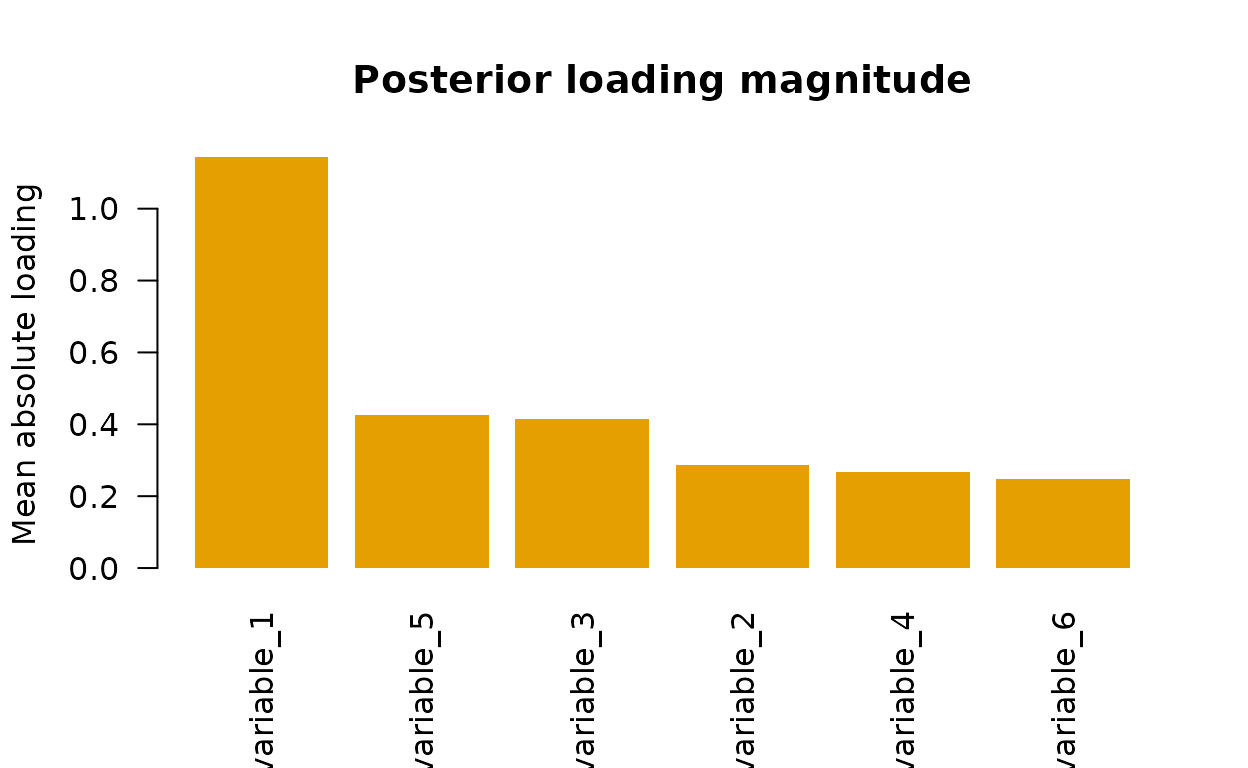
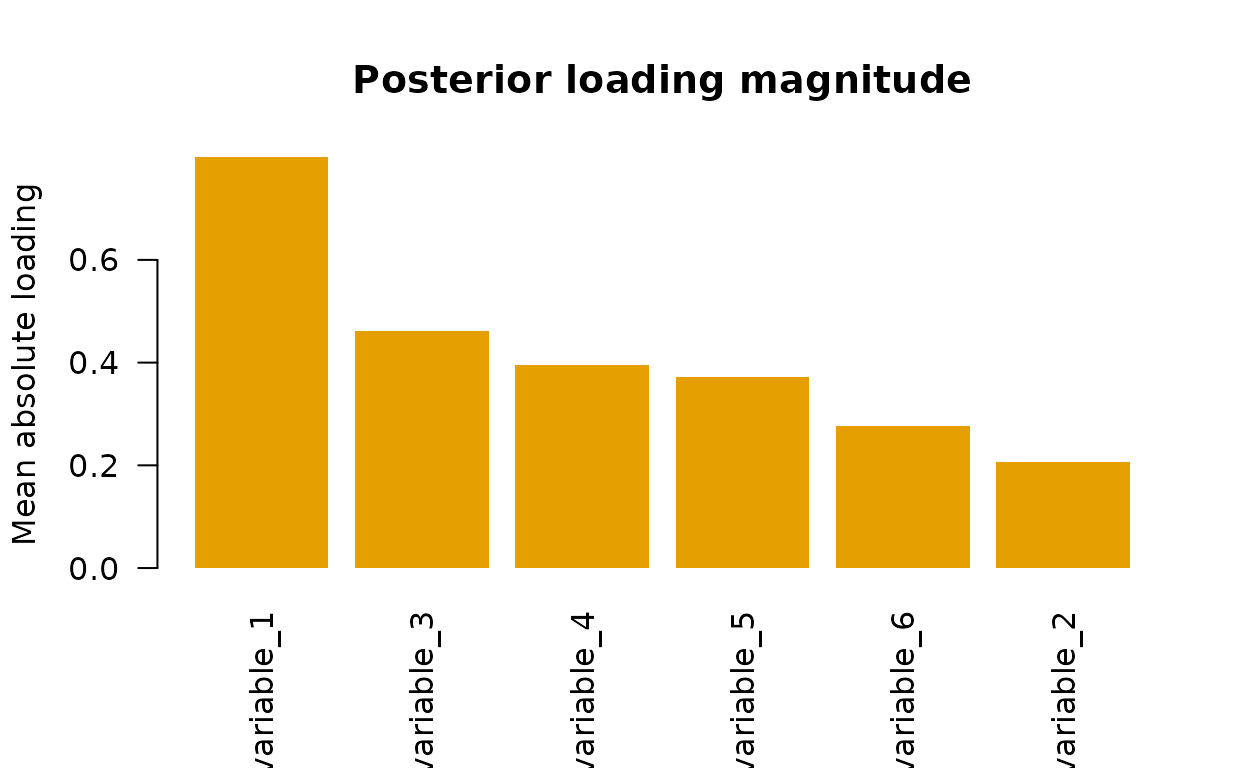
Deploying to gh-pages from @ YaoxiangLi/bpgmm@93dcc740b5835776e0d86ca30240e2da467fcf1e 🚀

diff --git a/articles/variable-prioritization.html b/articles/variable-prioritization.html
@@ -22,7 +22,7 @@
 
     <a class="navbar-brand me-2" href="../index.html">bpgmm</a>
 
-    <small class="nav-text text-muted me-auto" data-bs-toggle="tooltip" data-bs-placement="bottom" title="">1.3.1</small>
+    <small class="nav-text text-muted me-auto" data-bs-toggle="tooltip" data-bs-placement="bottom" title="">1.3.2</small>
 
 
     <button class="navbar-toggler" type="button" data-bs-toggle="collapse" data-bs-target="#navbar" aria-controls="navbar" aria-expanded="false" aria-label="Toggle navigation">
@@ -101,7 +101,7 @@ variables four and five have mostly covariance differences, and variable
 six is weak noise.</p>
 <div class="sourceCode" id="cb1"><pre class="downlit sourceCode r">
 <code class="sourceCode R"><span><span class="kw"><a href="https://rdrr.io/r/base/library.html" class="external-link">library</a></span><span class="op">(</span><span class="va"><a href="https://github.com/YaoxiangLi/bpgmm" class="external-link">bpgmm</a></span><span class="op">)</span></span>
-<span><span class="co">#&gt; bpgmm 1.3.1 loaded. If you use bpgmm in published work, please cite it with citation("bpgmm").</span></span>
+<span><span class="co">#&gt; bpgmm 1.3.2 loaded. If you use bpgmm in published work, please cite it with citation("bpgmm").</span></span>
 <span></span>
 <span><span class="va">simulate_screening_data</span> <span class="op">&lt;-</span> <span class="kw">function</span><span class="op">(</span><span class="va">n_per_cluster</span> <span class="op">=</span> <span class="fl">18</span>, <span class="va">p</span> <span class="op">=</span> <span class="fl">6</span><span class="op">)</span> <span class="op">{</span></span>
 <span>  <span class="va">means</span> <span class="op">&lt;-</span> <span class="fu"><a href="https://rdrr.io/r/base/cbind.html" class="external-link">rbind</a></span><span class="op">(</span></span>
@@ -174,7 +174,7 @@ questions.</p>
 <span></span>
 <span><span class="va">fit_summary</span> <span class="op">&lt;-</span> <span class="fu"><a href="../reference/summarize_pgmm_rjmcmc.html">summarize_pgmm_rjmcmc</a></span><span class="op">(</span><span class="va">fit</span>, true_cluster <span class="op">=</span> <span class="va">true_cluster</span><span class="op">)</span></span>
 <span><span class="va">fit_summary</span><span class="op">$</span><span class="va">ari</span></span>
-<span><span class="co">#&gt; [1] 0.5278689</span></span></code></pre></div>
+<span><span class="co">#&gt; [1] 0.5395626</span></span></code></pre></div>
 </div>
 <div class="section level2">
 <h2 id="rank-variables-by-posterior-allocation-separation">Rank variables by posterior allocation separation<a class="anchor" aria-label="anchor" href="#rank-variables-by-posterior-allocation-separation"></a>
@@ -209,11 +209,11 @@ separation under the fitted partition.</p>
 <span><span class="va">separation_table</span><span class="op">[</span><span class="fu"><a href="https://rdrr.io/r/base/order.html" class="external-link">order</a></span><span class="op">(</span><span class="va">separation_table</span><span class="op">$</span><span class="va">separation</span>, decreasing <span class="op">=</span> <span class="cn">TRUE</span><span class="op">)</span>, <span class="op">]</span></span>
 <span><span class="co">#&gt;     variable separation</span></span>
 <span><span class="co">#&gt; 2 variable_2      0.810</span></span>
-<span><span class="co">#&gt; 3 variable_3      0.704</span></span>
-<span><span class="co">#&gt; 6 variable_6      0.182</span></span>
-<span><span class="co">#&gt; 4 variable_4      0.114</span></span>
+<span><span class="co">#&gt; 3 variable_3      0.708</span></span>
+<span><span class="co">#&gt; 4 variable_4      0.166</span></span>
+<span><span class="co">#&gt; 6 variable_6      0.163</span></span>
 <span><span class="co">#&gt; 5 variable_5      0.036</span></span>
-<span><span class="co">#&gt; 1 variable_1      0.002</span></span></code></pre></div>
+<span><span class="co">#&gt; 1 variable_1      0.026</span></span></code></pre></div>
 <div class="sourceCode" id="cb4"><pre class="downlit sourceCode r">
 <code class="sourceCode R"><span><span class="va">ordered</span> <span class="op">&lt;-</span> <span class="fu"><a href="https://rdrr.io/r/base/order.html" class="external-link">order</a></span><span class="op">(</span><span class="va">separation</span>, decreasing <span class="op">=</span> <span class="cn">TRUE</span><span class="op">)</span></span>
 <span><span class="fu"><a href="https://rdrr.io/r/graphics/barplot.html" class="external-link">barplot</a></span><span class="op">(</span></span>
@@ -289,12 +289,12 @@ not a posterior inclusion probability.</p>
 <span><span class="op">)</span></span>
 <span><span class="va">loading_table</span><span class="op">[</span><span class="fu"><a href="https://rdrr.io/r/base/order.html" class="external-link">order</a></span><span class="op">(</span><span class="va">loading_table</span><span class="op">$</span><span class="va">mean_abs_loading</span>, decreasing <span class="op">=</span> <span class="cn">TRUE</span><span class="op">)</span>, <span class="op">]</span></span>
 <span><span class="co">#&gt;     variable mean_abs_loading</span></span>
-<span><span class="co">#&gt; 1 variable_1            1.143</span></span>
-<span><span class="co">#&gt; 5 variable_5            0.425</span></span>
-<span><span class="co">#&gt; 3 variable_3            0.415</span></span>
-<span><span class="co">#&gt; 2 variable_2            0.287</span></span>
-<span><span class="co">#&gt; 4 variable_4            0.267</span></span>
-<span><span class="co">#&gt; 6 variable_6            0.247</span></span></code></pre></div>
+<span><span class="co">#&gt; 1 variable_1            0.799</span></span>
+<span><span class="co">#&gt; 3 variable_3            0.461</span></span>
+<span><span class="co">#&gt; 4 variable_4            0.395</span></span>
+<span><span class="co">#&gt; 5 variable_5            0.373</span></span>
+<span><span class="co">#&gt; 6 variable_6            0.276</span></span>
+<span><span class="co">#&gt; 2 variable_2            0.207</span></span></code></pre></div>
 <div class="sourceCode" id="cb6"><pre class="downlit sourceCode r">
 <code class="sourceCode R"><span><span class="va">ordered_loading</span> <span class="op">&lt;-</span> <span class="fu"><a href="https://rdrr.io/r/base/order.html" class="external-link">order</a></span><span class="op">(</span><span class="va">loading_score</span>, decreasing <span class="op">=</span> <span class="cn">TRUE</span><span class="op">)</span></span>
 <span><span class="fu"><a href="https://rdrr.io/r/graphics/barplot.html" class="external-link">barplot</a></span><span class="op">(</span></span>

diff --git a/articles/posterior-diagnostics.html b/articles/posterior-diagnostics.html
@@ -22,7 +22,7 @@
 
     <a class="navbar-brand me-2" href="../index.html">bpgmm</a>
 
-    <small class="nav-text text-muted me-auto" data-bs-toggle="tooltip" data-bs-placement="bottom" title="">1.3.1</small>
+    <small class="nav-text text-muted me-auto" data-bs-toggle="tooltip" data-bs-placement="bottom" title="">1.3.2</small>
 
 
     <button class="navbar-toggler" type="button" data-bs-toggle="collapse" data-bs-target="#navbar" aria-controls="navbar" aria-expanded="false" aria-label="Toggle navigation">
@@ -86,7 +86,7 @@ across independent runs.</p>
 </h2>
 <div class="sourceCode" id="cb1"><pre class="downlit sourceCode r">
 <code class="sourceCode R"><span><span class="kw"><a href="https://rdrr.io/r/base/library.html" class="external-link">library</a></span><span class="op">(</span><span class="va"><a href="https://github.com/YaoxiangLi/bpgmm" class="external-link">bpgmm</a></span><span class="op">)</span></span>
-<span><span class="co">#&gt; bpgmm 1.3.1 loaded. If you use bpgmm in published work, please cite it with citation("bpgmm").</span></span>
+<span><span class="co">#&gt; bpgmm 1.3.2 loaded. If you use bpgmm in published work, please cite it with citation("bpgmm").</span></span>
 <span></span>
 <span><span class="fu"><a href="https://rdrr.io/r/base/Random.html" class="external-link">set.seed</a></span><span class="op">(</span><span class="fl">2029</span><span class="op">)</span></span>
 <span><span class="va">X</span> <span class="op">&lt;-</span> <span class="fu"><a href="https://rdrr.io/r/base/cbind.html" class="external-link">cbind</a></span><span class="op">(</span></span>
@@ -161,9 +161,9 @@ the chains use different random seeds.</p>
 <span>    <span class="fu"><a href="https://rdrr.io/r/base/integer.html" class="external-link">as.integer</a></span><span class="op">(</span><span class="fu"><a href="https://rdrr.io/r/base/names.html" class="external-link">names</a></span><span class="op">(</span><span class="fu"><a href="https://rdrr.io/r/base/which.min.html" class="external-link">which.max</a></span><span class="op">(</span><span class="va">x</span><span class="op">$</span><span class="va">n_clusters</span><span class="op">)</span><span class="op">)</span><span class="op">)</span></span>
 <span>  <span class="op">}</span>, <span class="fu"><a href="https://rdrr.io/r/base/integer.html" class="external-link">integer</a></span><span class="op">(</span><span class="fl">1</span><span class="op">)</span><span class="op">)</span></span>
 <span><span class="op">)</span></span>
-<span><span class="co">#&gt;           chain       ari modal_clusters</span></span>
-<span><span class="co">#&gt; chain_1 chain_1 1.0000000              3</span></span>
-<span><span class="co">#&gt; chain_2 chain_2 0.1452145              3</span></span></code></pre></div>
+<span><span class="co">#&gt;           chain ari modal_clusters</span></span>
+<span><span class="co">#&gt; chain_1 chain_1   1              3</span></span>
+<span><span class="co">#&gt; chain_2 chain_2   1              3</span></span></code></pre></div>
 </div>
 <div class="section level2">
 <h2 id="trace-cluster-counts-and-covariance-models">Trace cluster counts and covariance models<a class="anchor" aria-label="anchor" href="#trace-cluster-counts-and-covariance-models"></a>
@@ -194,7 +194,7 @@ diagnostics.</p>
 <span><span class="co">#&gt; [1] "UUU" "CUU" "CUC" "CCC"</span></span>
 <span><span class="co">#&gt; </span></span>
 <span><span class="co">#&gt; $chain_2</span></span>
-<span><span class="co">#&gt; [1] "UUU" "UCU" "UCC" "UCC"</span></span></code></pre></div>
+<span><span class="co">#&gt; [1] "CUU" "UUU" "UUU" "UCU"</span></span></code></pre></div>
 <div class="sourceCode" id="cb6"><pre class="downlit sourceCode r">
 <code class="sourceCode R"><span><span class="va">old_par</span> <span class="op">&lt;-</span> <span class="fu"><a href="https://rdrr.io/r/graphics/par.html" class="external-link">par</a></span><span class="op">(</span>mar <span class="op">=</span> <span class="fu"><a href="https://rdrr.io/r/base/c.html" class="external-link">c</a></span><span class="op">(</span><span class="fl">4</span>, <span class="fl">4</span>, <span class="fl">3</span>, <span class="fl">1</span><span class="op">)</span><span class="op">)</span></span>
 <span><span class="fu"><a href="https://rdrr.io/r/graphics/plot.default.html" class="external-link">plot</a></span><span class="op">(</span></span>

diff --git a/news/index.html b/news/index.html
@@ -7,7 +7,7 @@
 
     <a class="navbar-brand me-2" href="../index.html">bpgmm</a>
 
-    <small class="nav-text text-muted me-auto" data-bs-toggle="tooltip" data-bs-placement="bottom" title="">1.3.1</small>
+    <small class="nav-text text-muted me-auto" data-bs-toggle="tooltip" data-bs-placement="bottom" title="">1.3.2</small>
 
 
     <button class="navbar-toggler" type="button" data-bs-toggle="collapse" data-bs-target="#navbar" aria-controls="navbar" aria-expanded="false" aria-label="Toggle navigation">
@@ -44,7 +44,12 @@
     </div>
 
     <div class="section level2">
-<h2 class="pkg-version" data-toc-text="1.3.1" id="bpgmm-131">bpgmm 1.3.1<a class="anchor" aria-label="anchor" href="#bpgmm-131"></a></h2>
+<h2 class="pkg-version" data-toc-text="1.3.2" id="bpgmm-132">bpgmm 1.3.2<a class="anchor" aria-label="anchor" href="#bpgmm-132"></a></h2>
+<ul><li>Fixed the <code>beta</code> hyperparameter Gibbs update so the Gamma rate uses the rate hyperprior <code>s_vec[3]</code> (<code>s_beta</code>) instead of the shape hyperprior <code>d_vec[3]</code>, matching the conditional posterior in Lu, Li, and Love (2021, Appendix A.1.3). Results are unchanged under the default symmetric hyperpriors <code>d_vec = s_vec = c(1, 1, 1)</code> but are corrected for user-supplied asymmetric <code>beta</code> hyperpriors.</li>
+<li>Fixed the native latent-score update so unallocated observations draw from <code>N(0, I_q)</code> as specified in the paper’s conditional for the scores, rather than from the component score covariance. These scores are not used in any downstream sufficient statistic, so posterior results are unaffected.</li>
+</ul></div>
+    <div class="section level2">
+<h2 class="pkg-version" data-toc-text="1.3.1" id="bpgmm-131">bpgmm 1.3.1<a class="anchor" aria-label="anchor" href="#bpgmm-131"></a></h2><p class="text-muted">CRAN release: 2026-05-28</p>
 <ul><li>Revised the vignette set to reduce repeated examples across vignettes.</li>
 <li>Made the model-and-sampler, data-preparation, model-selection, variable-prioritization, and diagnostics vignettes more formula-focused and closer to the notation in Lu, Li, and Love (2021).</li>
 <li>Changed the variable-prioritization simulation so it no longer duplicates the larger MFA model-selection example.</li>

diff --git a/articles/model-selection.html b/articles/model-selection.html
@@ -22,7 +22,7 @@
 
     <a class="navbar-brand me-2" href="../index.html">bpgmm</a>
 
-    <small class="nav-text text-muted me-auto" data-bs-toggle="tooltip" data-bs-placement="bottom" title="">1.3.1</small>
+    <small class="nav-text text-muted me-auto" data-bs-toggle="tooltip" data-bs-placement="bottom" title="">1.3.2</small>
 
 
     <button class="navbar-toggler" type="button" data-bs-toggle="collapse" data-bs-target="#navbar" aria-controls="navbar" aria-expanded="false" aria-label="Toggle navigation">
@@ -98,7 +98,7 @@ y_i \sim N_2(0, I_2),
 </annotation></semantics></math></p>
 <div class="sourceCode" id="cb1"><pre class="downlit sourceCode r">
 <code class="sourceCode R"><span><span class="kw"><a href="https://rdrr.io/r/base/library.html" class="external-link">library</a></span><span class="op">(</span><span class="va"><a href="https://github.com/YaoxiangLi/bpgmm" class="external-link">bpgmm</a></span><span class="op">)</span></span>
-<span><span class="co">#&gt; bpgmm 1.3.1 loaded. If you use bpgmm in published work, please cite it with citation("bpgmm").</span></span>
+<span><span class="co">#&gt; bpgmm 1.3.2 loaded. If you use bpgmm in published work, please cite it with citation("bpgmm").</span></span>
 <span></span>
 <span><span class="va">simulate_mfa_data</span> <span class="op">&lt;-</span> <span class="kw">function</span><span class="op">(</span><span class="va">n_per_cluster</span> <span class="op">=</span> <span class="fl">20</span>, <span class="va">p</span> <span class="op">=</span> <span class="fl">6</span>, <span class="va">q</span> <span class="op">=</span> <span class="fl">2</span><span class="op">)</span> <span class="op">{</span></span>
 <span>  <span class="va">means</span> <span class="op">&lt;-</span> <span class="fu"><a href="https://rdrr.io/r/base/cbind.html" class="external-link">rbind</a></span><span class="op">(</span></span>
@@ -226,8 +226,8 @@ frequencies:</p>
 <span><span class="co">#&gt; 6</span></span>
 <span><span class="va">fit_summary</span><span class="op">$</span><span class="va">n_constraints</span></span>
 <span><span class="co">#&gt; </span></span>
-<span><span class="co">#&gt; UCC UCU UUU </span></span>
-<span><span class="co">#&gt;   1   1   4</span></span>
+<span><span class="co">#&gt; UCU UUU </span></span>
+<span><span class="co">#&gt;   5   1</span></span>
 <span><span class="va">fit_summary</span><span class="op">$</span><span class="va">ari</span></span>
 <span><span class="co">#&gt; [1] 0.9495627</span></span></code></pre></div>
 <p>The model-selection summaries are posterior sample counts. In an

diff --git a/articles/data-preparation.html b/articles/data-preparation.html
@@ -22,7 +22,7 @@
 
     <a class="navbar-brand me-2" href="../index.html">bpgmm</a>
 
-    <small class="nav-text text-muted me-auto" data-bs-toggle="tooltip" data-bs-placement="bottom" title="">1.3.1</small>
+    <small class="nav-text text-muted me-auto" data-bs-toggle="tooltip" data-bs-placement="bottom" title="">1.3.2</small>
 
 
     <button class="navbar-toggler" type="button" data-bs-toggle="collapse" data-bs-target="#navbar" aria-controls="navbar" aria-expanded="false" aria-label="Toggle navigation">
@@ -102,7 +102,7 @@ is observation
 <math display="inline" xmlns="http://www.w3.org/1998/Math/MathML"><semantics><msub><mi>x</mi><mi>i</mi></msub><annotation encoding="application/x-tex">x_i</annotation></semantics></math>.</p>
 <div class="sourceCode" id="cb1"><pre class="downlit sourceCode r">
 <code class="sourceCode R"><span><span class="kw"><a href="https://rdrr.io/r/base/library.html" class="external-link">library</a></span><span class="op">(</span><span class="va"><a href="https://github.com/YaoxiangLi/bpgmm" class="external-link">bpgmm</a></span><span class="op">)</span></span>
-<span><span class="co">#&gt; bpgmm 1.3.1 loaded. If you use bpgmm in published work, please cite it with citation("bpgmm").</span></span>
+<span><span class="co">#&gt; bpgmm 1.3.2 loaded. If you use bpgmm in published work, please cite it with citation("bpgmm").</span></span>
 <span></span>
 <span><span class="va">iris_numeric</span> <span class="op">&lt;-</span> <span class="fu"><a href="https://rdrr.io/r/base/matrix.html" class="external-link">as.matrix</a></span><span class="op">(</span><span class="va">iris</span><span class="op">[</span>, <span class="fl">1</span><span class="op">:</span><span class="fl">4</span><span class="op">]</span><span class="op">)</span></span>
 <span><span class="va">iris_labels</span> <span class="op">&lt;-</span> <span class="fu"><a href="https://rdrr.io/r/base/integer.html" class="external-link">as.integer</a></span><span class="op">(</span><span class="va">iris</span><span class="op">$</span><span class="va">Species</span><span class="op">)</span></span>

diff --git a/articles/examples.html b/articles/examples.html
@@ -22,7 +22,7 @@
 
     <a class="navbar-brand me-2" href="../index.html">bpgmm</a>
 
-    <small class="nav-text text-muted me-auto" data-bs-toggle="tooltip" data-bs-placement="bottom" title="">1.3.1</small>
+    <small class="nav-text text-muted me-auto" data-bs-toggle="tooltip" data-bs-placement="bottom" title="">1.3.2</small>
 
 
     <button class="navbar-toggler" type="button" data-bs-toggle="collapse" data-bs-target="#navbar" aria-controls="navbar" aria-expanded="false" aria-label="Toggle navigation">
@@ -86,7 +86,7 @@ rows and observations in columns. The code below creates two
 well-separated clusters in two dimensions.</p>
 <div class="sourceCode" id="cb1"><pre class="downlit sourceCode r">
 <code class="sourceCode R"><span><span class="kw"><a href="https://rdrr.io/r/base/library.html" class="external-link">library</a></span><span class="op">(</span><span class="va"><a href="https://github.com/YaoxiangLi/bpgmm" class="external-link">bpgmm</a></span><span class="op">)</span></span>
-<span><span class="co">#&gt; bpgmm 1.3.1 loaded. If you use bpgmm in published work, please cite it with citation("bpgmm").</span></span>
+<span><span class="co">#&gt; bpgmm 1.3.2 loaded. If you use bpgmm in published work, please cite it with citation("bpgmm").</span></span>
 <span></span>
 <span><span class="fu"><a href="https://rdrr.io/r/base/Random.html" class="external-link">set.seed</a></span><span class="op">(</span><span class="fl">2026</span><span class="op">)</span></span>
 <span></span>

diff --git a/articles/getting-started.html b/articles/getting-started.html
@@ -22,7 +22,7 @@
 
     <a class="navbar-brand me-2" href="../index.html">bpgmm</a>
 
-    <small class="nav-text text-muted me-auto" data-bs-toggle="tooltip" data-bs-placement="bottom" title="">1.3.1</small>
+    <small class="nav-text text-muted me-auto" data-bs-toggle="tooltip" data-bs-placement="bottom" title="">1.3.2</small>
 
 
     <button class="navbar-toggler" type="button" data-bs-toggle="collapse" data-bs-target="#navbar" aria-controls="navbar" aria-expanded="false" aria-label="Toggle navigation">
@@ -131,7 +131,7 @@ applied analyses should use larger <code>burn</code> and
 <code>niter</code> values.</p>
 <div class="sourceCode" id="cb1"><pre class="downlit sourceCode r">
 <code class="sourceCode R"><span><span class="kw"><a href="https://rdrr.io/r/base/library.html" class="external-link">library</a></span><span class="op">(</span><span class="va"><a href="https://github.com/YaoxiangLi/bpgmm" class="external-link">bpgmm</a></span><span class="op">)</span></span>
-<span><span class="co">#&gt; bpgmm 1.3.1 loaded. If you use bpgmm in published work, please cite it with citation("bpgmm").</span></span>
+<span><span class="co">#&gt; bpgmm 1.3.2 loaded. If you use bpgmm in published work, please cite it with citation("bpgmm").</span></span>
 <span></span>
 <span><span class="fu"><a href="https://rdrr.io/r/base/Random.html" class="external-link">set.seed</a></span><span class="op">(</span><span class="fl">2026</span><span class="op">)</span></span>
 <span></span>

diff --git a/articles/model-and-sampler.html b/articles/model-and-sampler.html
@@ -22,7 +22,7 @@
 
     <a class="navbar-brand me-2" href="../index.html">bpgmm</a>
 
-    <small class="nav-text text-muted me-auto" data-bs-toggle="tooltip" data-bs-placement="bottom" title="">1.3.1</small>
+    <small class="nav-text text-muted me-auto" data-bs-toggle="tooltip" data-bs-placement="bottom" title="">1.3.2</small>
 
 
     <button class="navbar-toggler" type="button" data-bs-toggle="collapse" data-bs-target="#navbar" aria-controls="navbar" aria-expanded="false" aria-label="Toggle navigation">
@@ -243,7 +243,7 @@ for unconstrained.</p>
 <p>The eight PGMM models are:</p>
 <div class="sourceCode" id="cb2"><pre class="downlit sourceCode r">
 <code class="sourceCode R"><span><span class="kw"><a href="https://rdrr.io/r/base/library.html" class="external-link">library</a></span><span class="op">(</span><span class="va"><a href="https://github.com/YaoxiangLi/bpgmm" class="external-link">bpgmm</a></span><span class="op">)</span></span>
-<span><span class="co">#&gt; bpgmm 1.3.1 loaded. If you use bpgmm in published work, please cite it with citation("bpgmm").</span></span>
+<span><span class="co">#&gt; bpgmm 1.3.2 loaded. If you use bpgmm in published work, please cite it with citation("bpgmm").</span></span>
 <span></span>
 <span><span class="va">models</span> <span class="op">&lt;-</span> <span class="fu"><a href="https://rdrr.io/r/base/c.html" class="external-link">c</a></span><span class="op">(</span><span class="st">"CCC"</span>, <span class="st">"CCU"</span>, <span class="st">"CUC"</span>, <span class="st">"CUU"</span>, <span class="st">"UCC"</span>, <span class="st">"UCU"</span>, <span class="st">"UUC"</span>, <span class="st">"UUU"</span><span class="op">)</span></span>
 <span><span class="fu"><a href="https://rdrr.io/r/base/data.frame.html" class="external-link">data.frame</a></span><span class="op">(</span></span>

diff --git a/404.html b/404.html
@@ -22,7 +22,7 @@
 
     <a class="navbar-brand me-2" href="https://yaoxiangli.github.io/bpgmm/index.html">bpgmm</a>
 
-    <small class="nav-text text-muted me-auto" data-bs-toggle="tooltip" data-bs-placement="bottom" title="">1.3.1</small>
+    <small class="nav-text text-muted me-auto" data-bs-toggle="tooltip" data-bs-placement="bottom" title="">1.3.2</small>
 
 
     <button class="navbar-toggler" type="button" data-bs-toggle="collapse" data-bs-target="#navbar" aria-controls="navbar" aria-expanded="false" aria-label="Toggle navigation">

diff --git a/articles/index.html b/articles/index.html
@@ -7,7 +7,7 @@
 
     <a class="navbar-brand me-2" href="../index.html">bpgmm</a>
 
-    <small class="nav-text text-muted me-auto" data-bs-toggle="tooltip" data-bs-placement="bottom" title="">1.3.1</small>
+    <small class="nav-text text-muted me-auto" data-bs-toggle="tooltip" data-bs-placement="bottom" title="">1.3.2</small>
 
 
     <button class="navbar-toggler" type="button" data-bs-toggle="collapse" data-bs-target="#navbar" aria-controls="navbar" aria-expanded="false" aria-label="Toggle navigation">

diff --git a/authors.html b/authors.html
@@ -7,7 +7,7 @@
 
     <a class="navbar-brand me-2" href="index.html">bpgmm</a>
 
-    <small class="nav-text text-muted me-auto" data-bs-toggle="tooltip" data-bs-placement="bottom" title="">1.3.1</small>
+    <small class="nav-text text-muted me-auto" data-bs-toggle="tooltip" data-bs-placement="bottom" title="">1.3.2</small>
 
 
     <button class="navbar-toggler" type="button" data-bs-toggle="collapse" data-bs-target="#navbar" aria-controls="navbar" aria-expanded="false" aria-label="Toggle navigation">

diff --git a/index.html b/index.html
@@ -24,7 +24,7 @@
 
     <a class="navbar-brand me-2" href="index.html">bpgmm</a>
 
-    <small class="nav-text text-muted me-auto" data-bs-toggle="tooltip" data-bs-placement="bottom" title="">1.3.1</small>
+    <small class="nav-text text-muted me-auto" data-bs-toggle="tooltip" data-bs-placement="bottom" title="">1.3.2</small>
 
 
     <button class="navbar-toggler" type="button" data-bs-toggle="collapse" data-bs-target="#navbar" aria-controls="navbar" aria-expanded="false" aria-label="Toggle navigation">